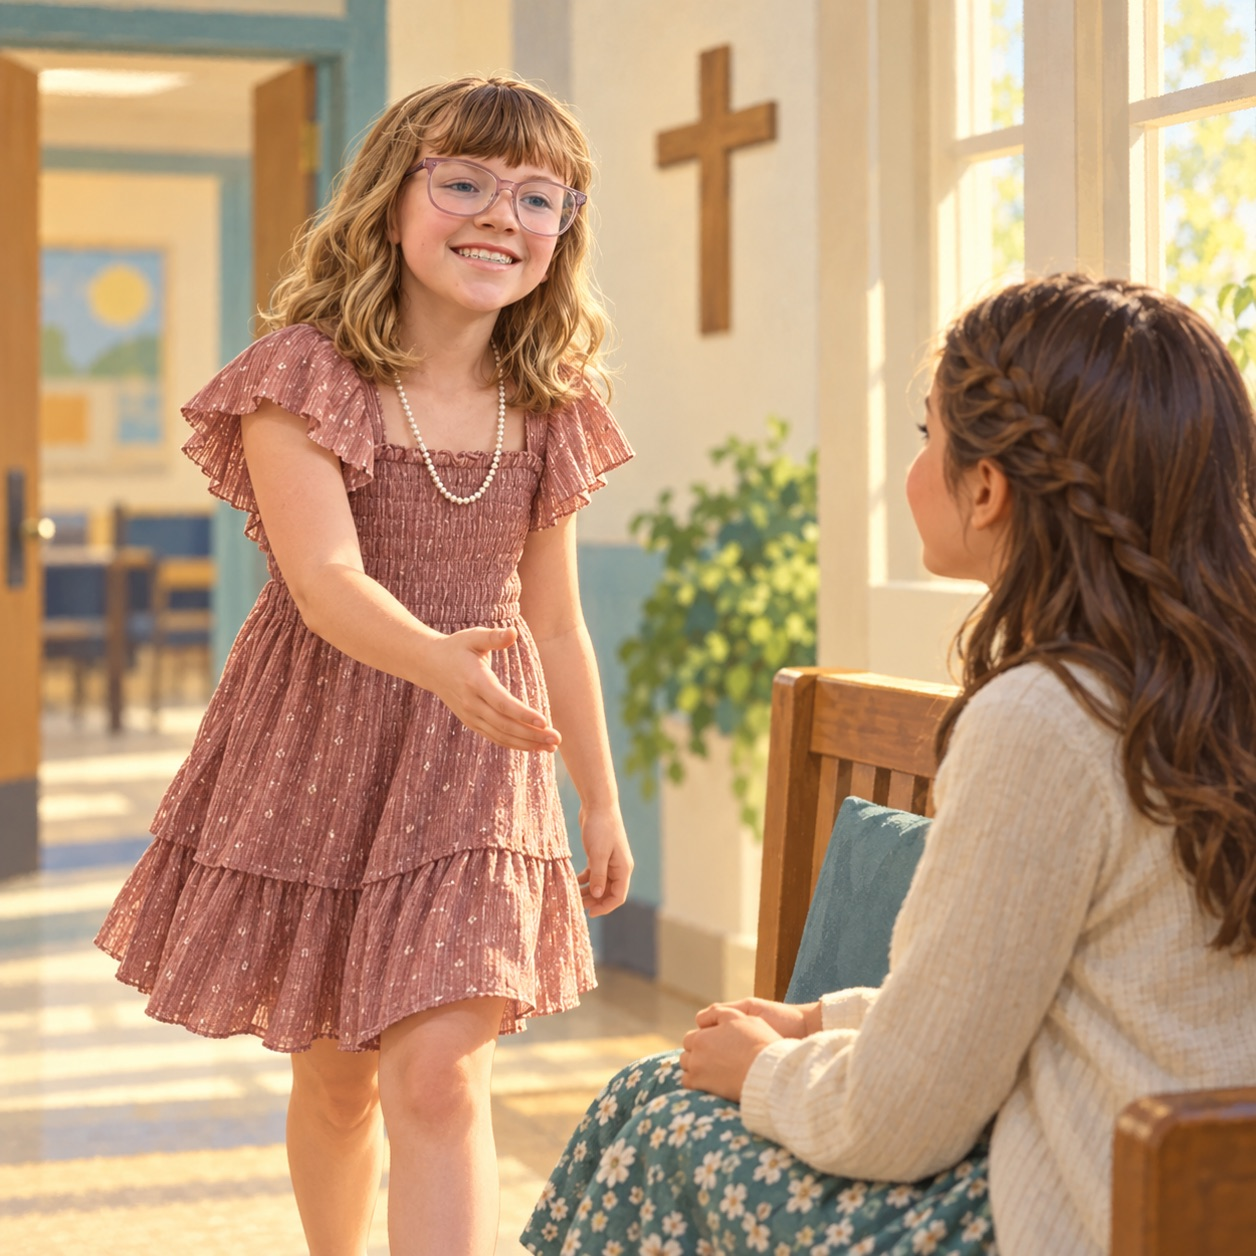
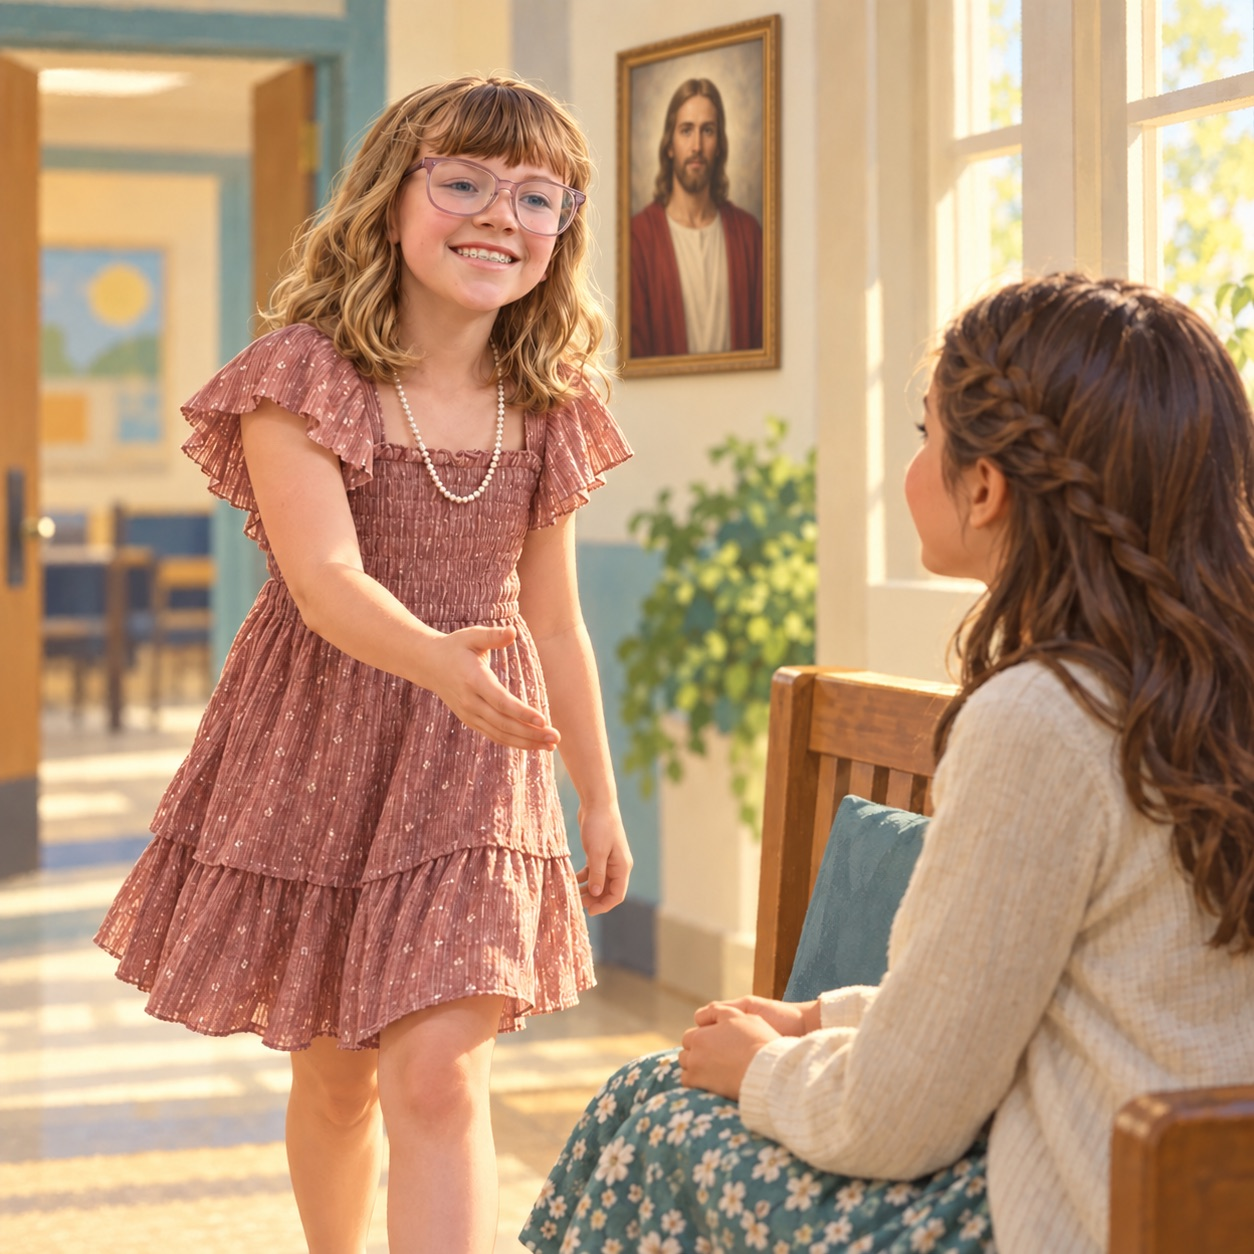
Replace cross with Christ portrait

diff --git a/borne-our-griefs-lesson.html b/borne-our-griefs-lesson.html
@@ -82,7 +82,7 @@
     <blockquote class="verse">“Awake, awake; put on thy strength … shake thyself from the dust; arise.”<a href="https://www.churchofjesuschrist.org/study/scriptures/ot/isa/52?lang=eng&amp;id=p1-p2#p1" target="_blank" rel="noopener">Isaiah 52:1–2</a></blockquote>
     <div class="panel"><span class="label">Stand and move</span><h3>Do Isaiah’s three motions.</h3><div class="motion-row"><button type="button" data-strength="Open your eyes and notice what is true."><strong>1 · Awake</strong>Stretch tall and look up.</button><button type="button" data-strength="Stand in a place where you can choose and act."><strong>2 · Arise</strong>Stand up straight.</button><button type="button" data-strength="Christ’s strength can look like courage, honesty, patience, and faith."><strong>3 · Put on strength</strong>Pretend to put on a strong coat.</button></div><p class="feedback" id="strengthFeedback" aria-live="polite">Tap each motion, then do it together.</p></div>
     <div class="question"><b>Ask the class</b><p>What kind of strength can Jesus give that muscles cannot?</p></div>
-    <figure class="kid-card single"><button class="picture" type="button" aria-label="Enlarge illustration of Sophie welcoming someone"><img src="assets/borne-our-griefs-lesson/sophie-strength.jpg" alt="Illustration of Sophie using courage to welcome another girl who is sitting alone near a Primary classroom" loading="lazy" width="1256" height="1256"></button><figcaption><b>Sophie puts on courage</b>Spiritual strength is not only about feeling brave. Sophie uses the strength Jesus gives her to notice someone sitting alone and be the first to say hello.</figcaption></figure>
+    <figure class="kid-card single"><button class="picture" type="button" aria-label="Enlarge illustration of Sophie welcoming someone"><img src="assets/borne-our-griefs-lesson/sophie-strength.jpg?v=2" alt="Illustration of Sophie using courage to welcome another girl who is sitting alone near a Primary classroom" loading="lazy" width="1254" height="1254"></button><figcaption><b>Sophie puts on courage</b>Spiritual strength is not only about feeling brave. Sophie uses the strength Jesus gives her to notice someone sitting alone and be the first to say hello.</figcaption></figure>
   </section>
 
   <section class="step" id="carry">
